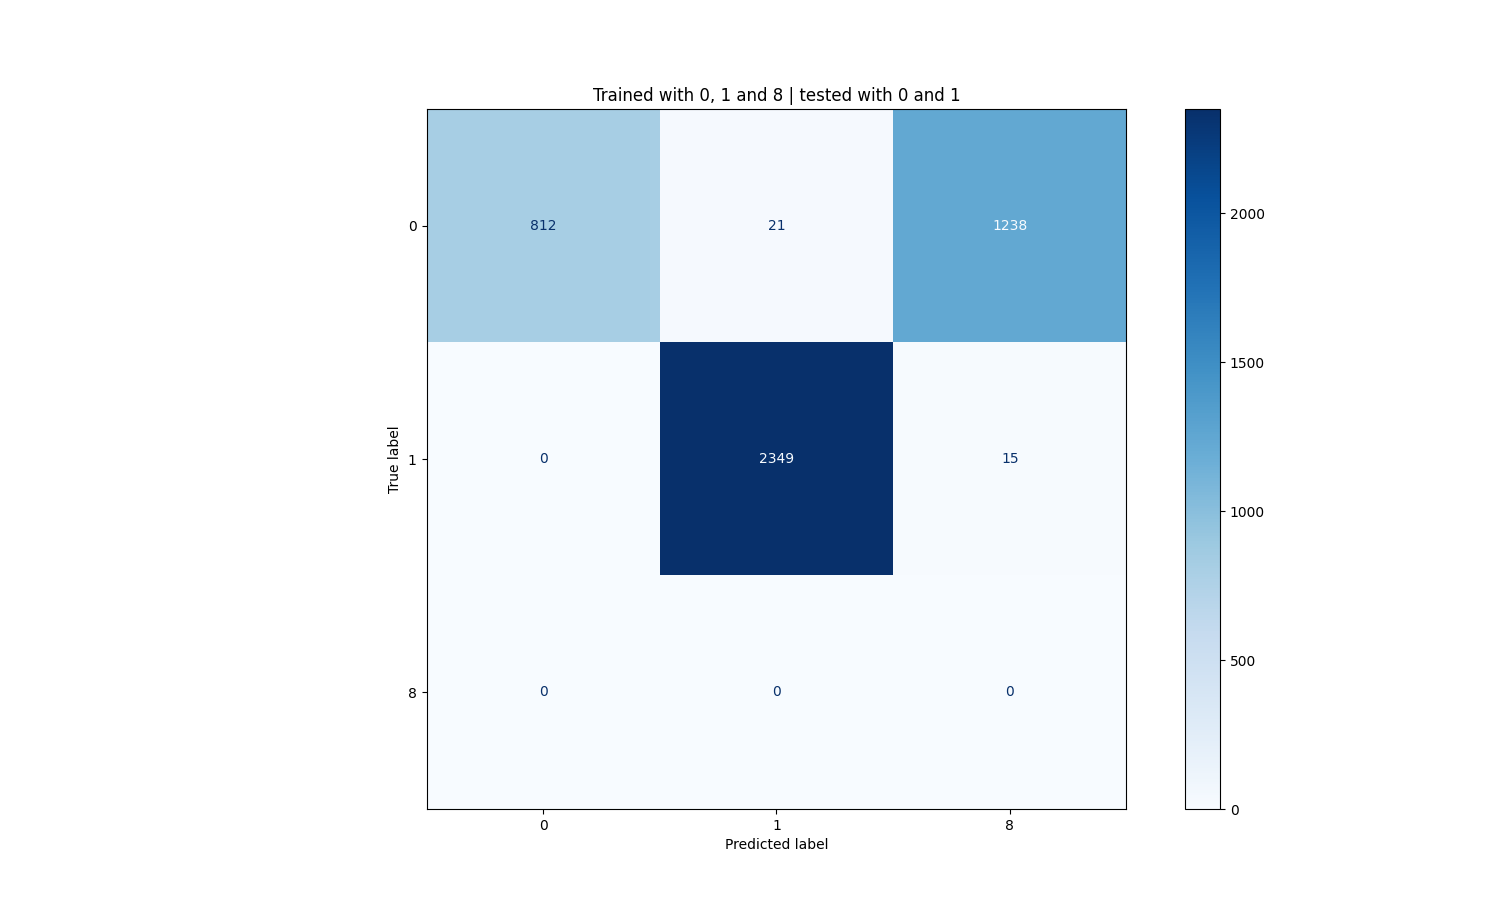
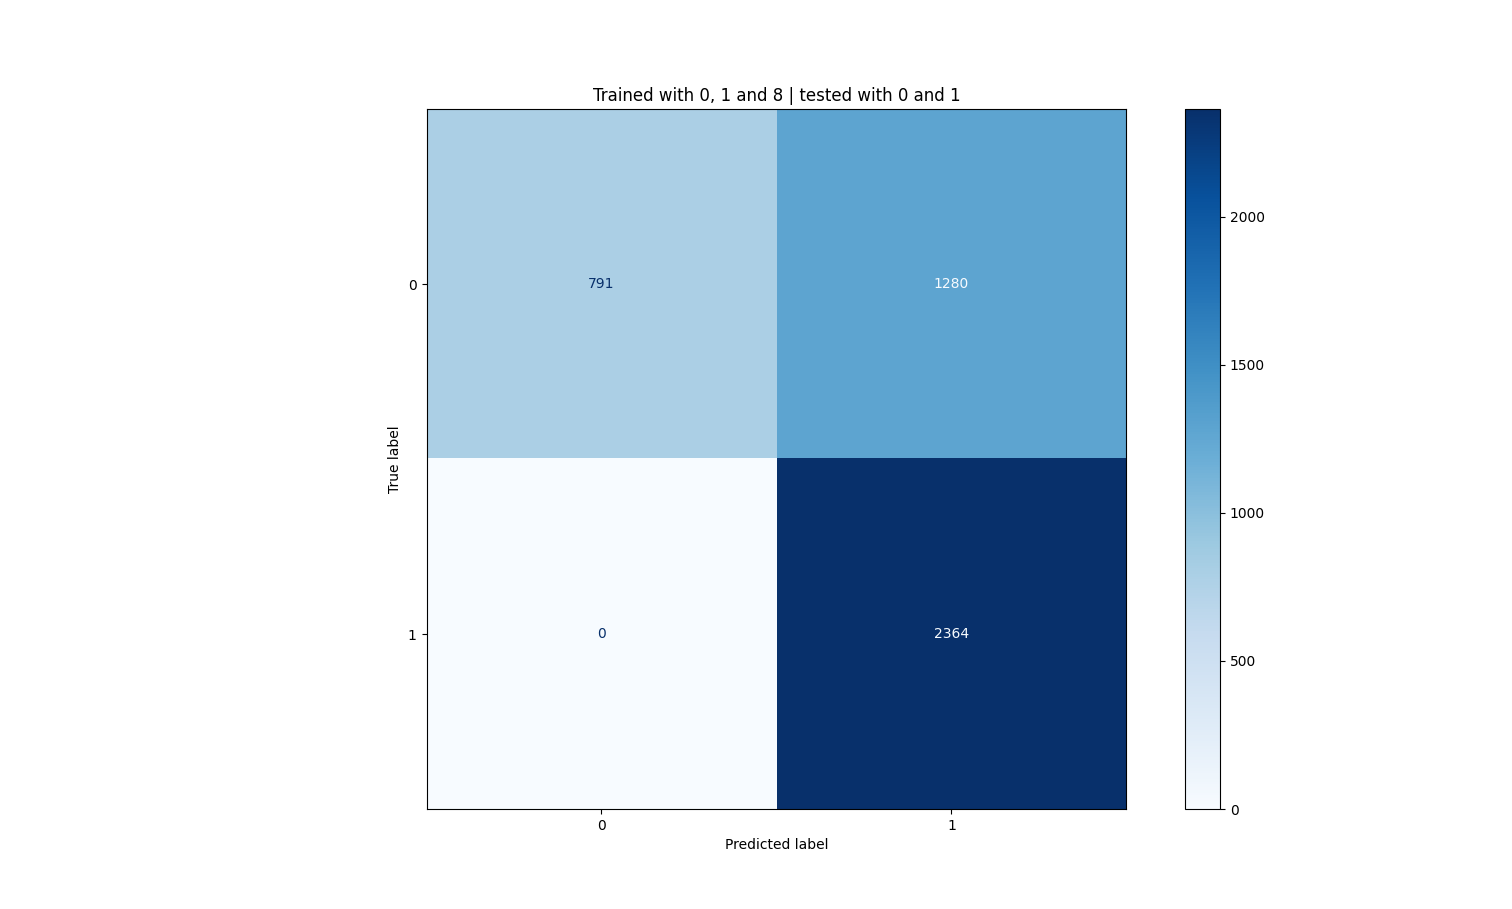
Changed 8 label to 1

Changed region(s): [[0.2798, 0.1232, 0.746, 0.8933], [0.8082, 0.5545, 0.8393, 0.5853], [0.8082, 0.2156, 0.8393, 0.2464]]

diff --git a/main.py b/main.py
@@ -34,7 +34,7 @@ def main():
     # Confusion matrix
     y_pred = clf.predict(X_test)
     conf_matrix = metrics.confusion_matrix(y_test, y_pred)
-    metrics.ConfusionMatrixDisplay(conf_matrix, display_labels=[0, 1, 8]).plot(cmap='Blues')
+    metrics.ConfusionMatrixDisplay(conf_matrix, display_labels=[0, 1]).plot(cmap='Blues')
     plt.title("Trained with 0, 1 and 8 | tested with 0 and 1")
     plt.show()
 
@@ -110,10 +110,9 @@ def get_fewshot_train_test_with_additions(mnist):
     # 8's
     is_eight = (mnist.target == '8')
     X_eights = X[is_eight]
-    y_eights = y[is_eight]
     eight_split_index = int(0.7 * len(X_ones))
     X_train_eights = X_eights[eight_split_index:]
-    y_train_eights = y_eights[eight_split_index:]
+    y_train_eights = list('1' * len(X_train_eights))
 
     # Double check
     print (f"len(y_train_zeros) {len(y_train_zeros)}")
